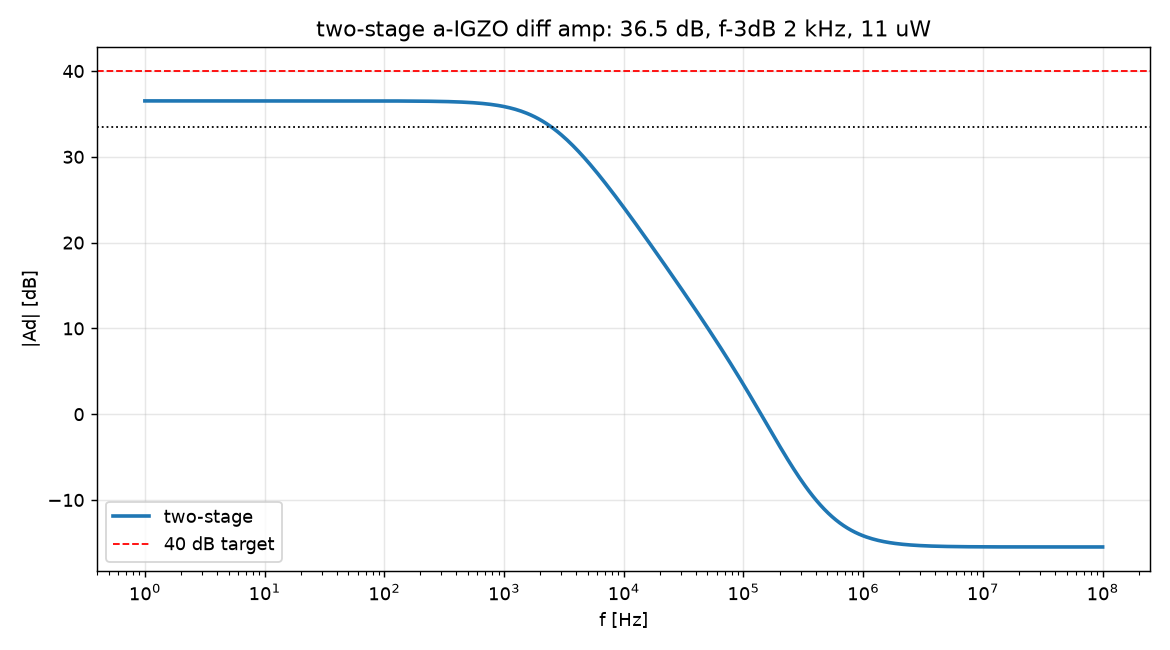
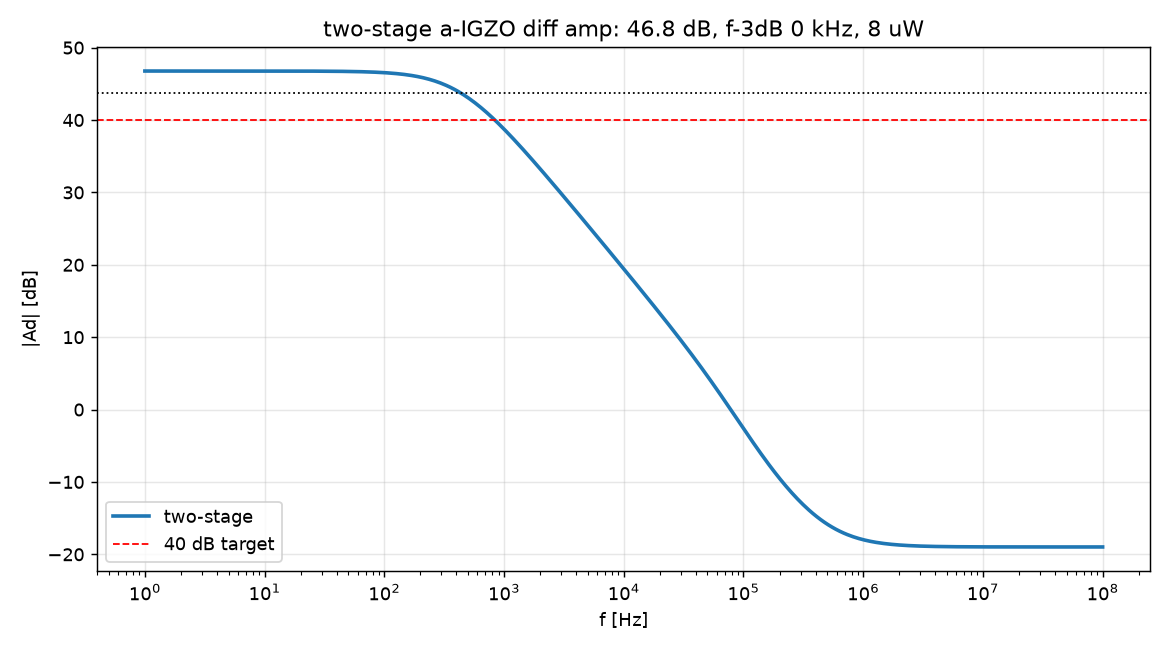
Collect the full two-stage gain/bandwidth Pareto, not just the max-gain point
Maximising gain alone lands on 46.8 dB at a 0.4 kHz corner, which cannot
pass the 10 kHz tone the single stage handled: both stages need multi-MOhm
loads to reach their gain, and each works against ~1 pF of gate overlap
capacitance, so GBW stays pinned near 0.1-0.2 MHz and gain trades against
bandwidth roughly one for one. Record every valid point to
twostage_sweep.csv and report the >= 40 dB set ordered by bandwidth, so
the fastest genuine 40 dB design is visible rather than just the corner.

Claude-Session: https://claude.ai/code/session_01AK74DGdjRBUq3W7Lwy7Jkm

diff --git a/scripts/twostage.py b/scripts/twostage.py
@@ -107,7 +107,7 @@ def main():
     STAGE_A = [((160e-6, 15e-6), 0.8, 1.2, 2.5),    # out CM 2.5 V, 22.8 dB
                ((160e-6, 15e-6), 0.8, 1.2, 3.0),    # out CM 2.0 V, more room for B
                ((160e-6, 20e-6), 0.8, 1.2, 2.8)]
-    best = None
+    best, rows = None, []
     for (w1, l1), vcm, vba, da in STAGE_A:
         for (w2, l2), vbb, db in itertools.product(
                 [(160e-6, 15e-6), (160e-6, 20e-6), (80e-6, 20e-6)],
@@ -117,13 +117,29 @@ def main():
                 r = solve(w1, l1, w2, l2, vcm, vba, vbb, da, db)
             except Exception:
                 continue
-            if r and (best is None or r["av_db"] > best["av_db"]):
-                r.update(vcm=vcm, vba=vba, vbb=vbb, da=da, db=db,
-                         W=w1 * 1e6, L=l1 * 1e6, W2=w2 * 1e6, L2=l2 * 1e6)
+            if not r:
+                continue
+            r.update(vcm=vcm, vba=vba, vbb=vbb, da=da, db=db,
+                     W=w1 * 1e6, L=l1 * 1e6, W2=w2 * 1e6, L2=l2 * 1e6)
+            rows.append({k: v for k, v in r.items()
+                         if k not in ("c", "v", "f", "resp")})
+            if best is None or r["av_db"] > best["av_db"]:
                 best = r
-                print(f"  best so far {r['av_db']:5.1f} dB  "
-                      f"(A {r['av1_db']:.1f} + B {r['av2_db']:.1f})  "
-                      f"B={r['W2']:.0f}/{r['L2']:.0f} vbb={vbb} drop={db}", flush=True)
+                print(f"  best gain so far {r['av_db']:5.1f} dB "
+                      f"(A {r['av1_db']:.1f} + B {r['av2_db']:.1f}), "
+                      f"f3dB {r['f3db']/1e3:.1f} kHz", flush=True)
+
+    import pandas as pd
+    df = pd.DataFrame(rows).sort_values("av_db", ascending=False)
+    df.to_csv(os.path.join(OUT, "twostage_sweep.csv"), index=False)
+    cols = ["W", "L", "W2", "L2", "vcm", "vba", "vbb", "da", "db", "ra", "rb",
+            "av_db", "av1_db", "av2_db", "f3db", "power"]
+    print(f"\n{len(df)} valid two-stage points\n")
+    print("=== highest gain ===")
+    print(df.head(5)[cols].to_string(index=False, float_format=lambda x: f"{x:.3g}"))
+    at40 = df[df.av_db >= 40].sort_values("f3db", ascending=False)
+    print(f"\n=== >= 40 dB, fastest first ({len(at40)} points) ===")
+    print(at40.head(8)[cols].to_string(index=False, float_format=lambda x: f"{x:.3g}"))
 
     b = best
     print(f"===== two-stage: pair A {b['W']:.0f}/{b['L']:.0f} um, "
